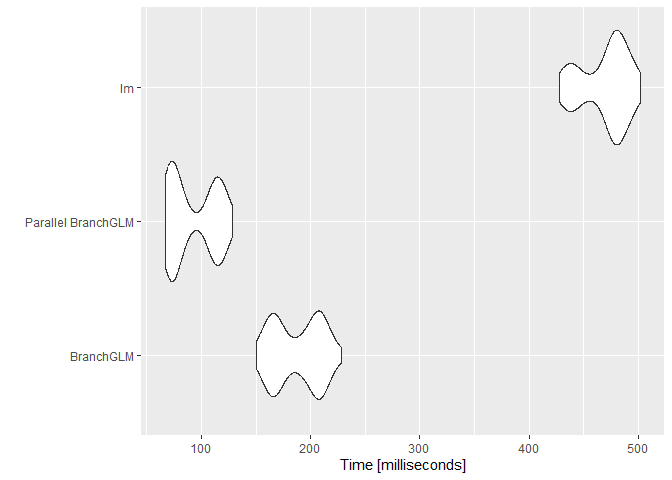
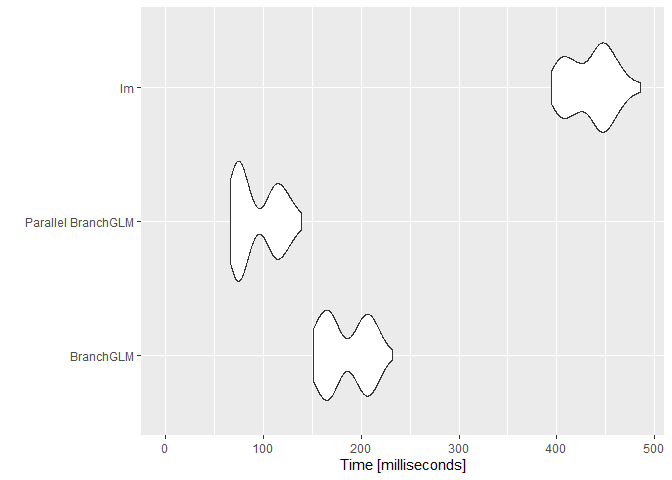
Updating README for version 2.1.2

diff --git a/README.md b/README.md
@@ -155,7 +155,7 @@ BranchTime
 ```
 
     ##    user  system elapsed 
-    ##    0.17    0.02    0.22
+    ##    0.15    0.00    0.14
 
 ``` r
 ### Timing exhaustive search
@@ -166,10 +166,10 @@ ExhaustiveTime
 ```
 
     ##    user  system elapsed 
-    ##  135.51    0.44  137.78
+    ##  119.11    0.38  123.85
 
 Finding the top 10 logistic regression models for this simulated dataset
-with 15 variables with the branch and bound method is about 626.27 times
+with 15 variables with the branch and bound method is about 884.64 times
 faster than an exhaustive search.
 
 ### Checking results
@@ -224,7 +224,7 @@ SerialTime
 ```
 
     ##    user  system elapsed 
-    ##   55.91    0.91   57.94
+    ##   10.33    0.12   11.15
 
 ### Parallel time
 
@@ -239,10 +239,10 @@ ParallelTime
 ```
 
     ##    user  system elapsed 
-    ##    5.58    0.01   15.86
+    ##    1.82    0.02    2.61
 
 Finding the top logistic regression model for this simulated dataset
-with 40 variables with parallel computation is about 3.65 times faster
+with 40 variables with parallel computation is about 4.27 times faster
 than without parallel computation.
 
 ### Checking results
